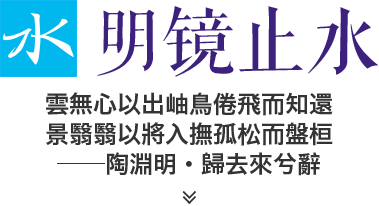
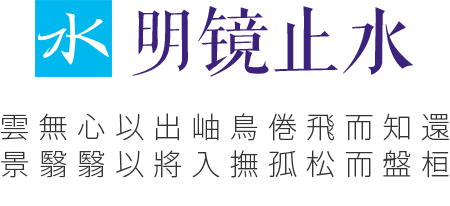
Improve entry display

diff --git a/main.css b/main.css
@@ -117,8 +117,8 @@ div,ul{
 h1 {
     margin: 0 auto;
     display: block;
-    width: 379px;
-    height: 300px;
+    width: 450px;
+    height: 200px;
     background-repeat: no-repeat;
     background-image: url('assets/title.png');
     text-indent: -999px;
@@ -129,9 +129,9 @@ h1 {
 h2{
     margin: 20px 0 0 0;
     display: block;
-    background-color: #f8b551;
+    /*background-color: #b3d465;*/
 
-    color: #fff;
+    /*color: #fff;*/
     padding: 2px 0 2px 0px;
     text-indent: 1em;
     font-style: normal;
@@ -145,15 +145,41 @@ copyright {
 .entry-container {
     padding: 0;
     margin: 0;
-    height: 500px;
+    height: 350px;
 }
 
 .entry{
     width: 320px;
     height: 120px;
-    margin: 10px;
-    padding: 4px;
+    margin: 8px;
+    padding: 10px 5px 0px 5px;
     float: left;
-    border: 1px #bebebe solid;
-    background-color: #f1f1f1;
+    border: none;
+    /*background-color: #fff;*/
+    background-image:url('assets/h3card.png');
+    background-repeat: no-repeat;
+
+    transition:all 0.25s;
+    -moz-transition:all 0.25s; 
+    -webkit-transition:all 0.25s; 
+    -o-transition:all 0.25s; 
+
+}
+
+.entry:hover{
+    opacity:0.8;
+    background-color: #fff;
+}
+
+h3{
+    padding:0;
+    margin:0;
+    font-size:20px;
+    background-color: #b3d465;
+    height: 30px;
+    width: 100%;
+    display: block;
+    text-overflow: ellipsis;
+    overflow: hidden;
+    white-space:nowrap; 
 }

diff --git a/index.html b/index.html
@@ -36,7 +36,7 @@
             <div id="h1spacer"></div>
             <h1>明鏡止水</h1>
             <div class="entry-container">
-            <h2><span class="icon-stackexchange"></span>最新博文</h2>
+            <h2><span class="icon-stackexchange"></span>新文章</h2>
             
             </div>
             <h2><span class=""></span></h2>
